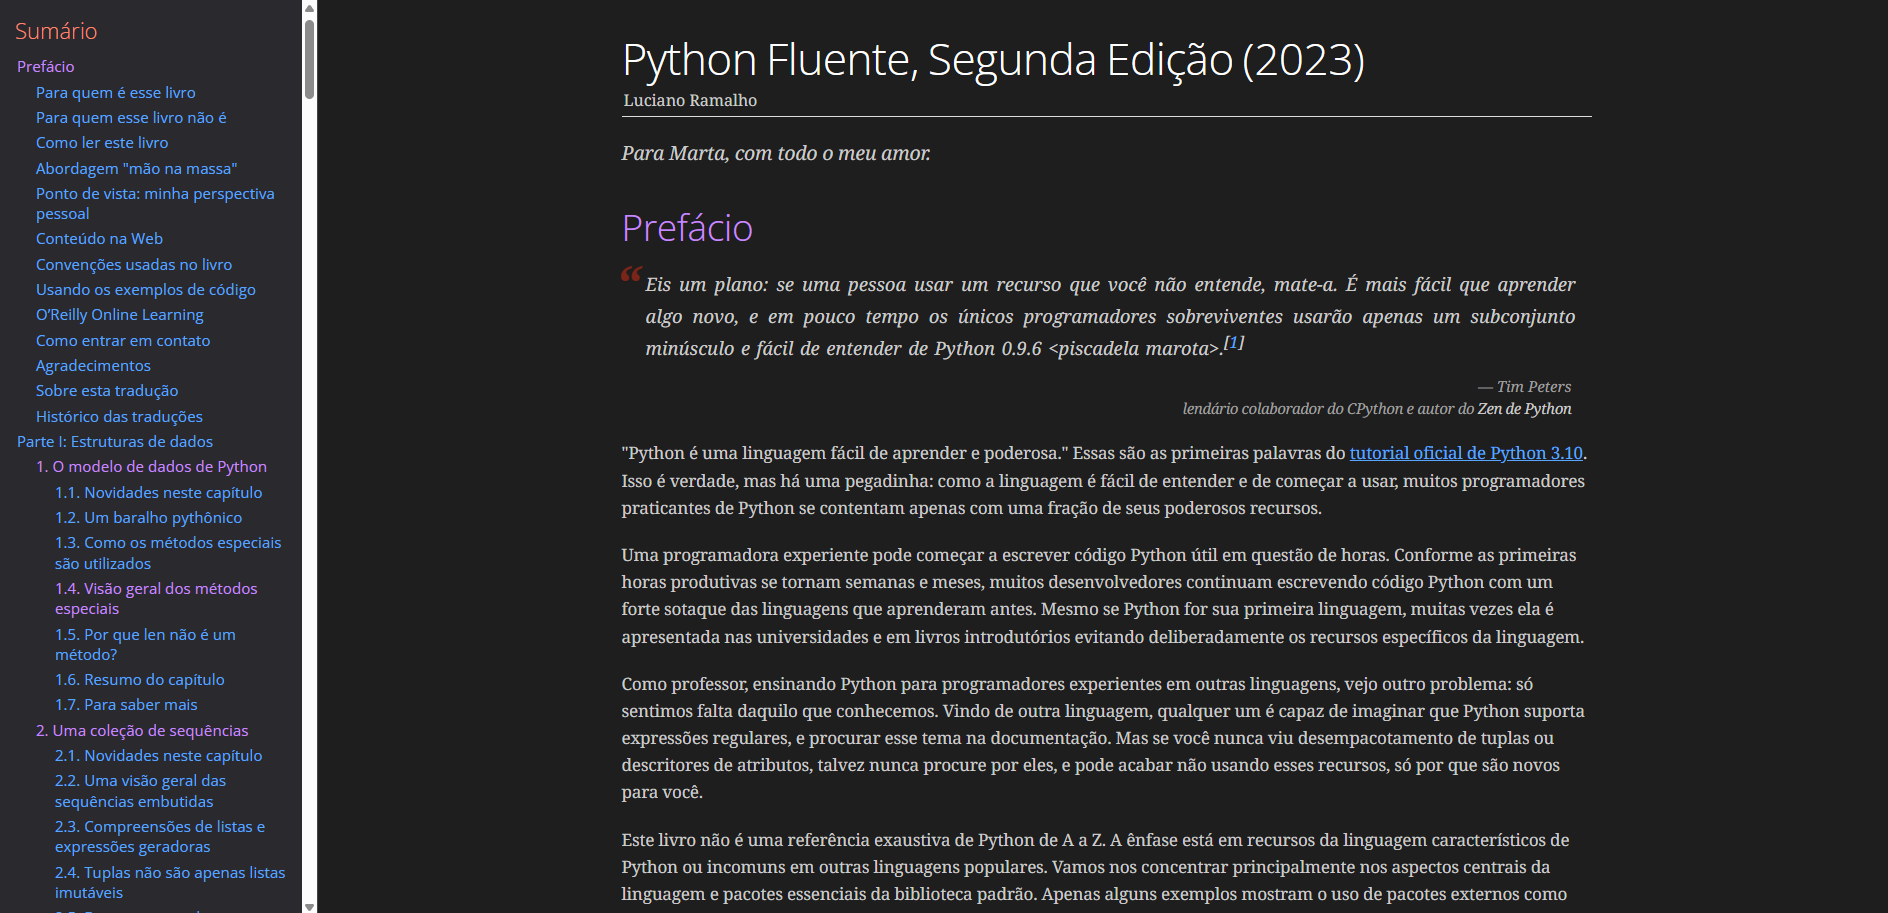
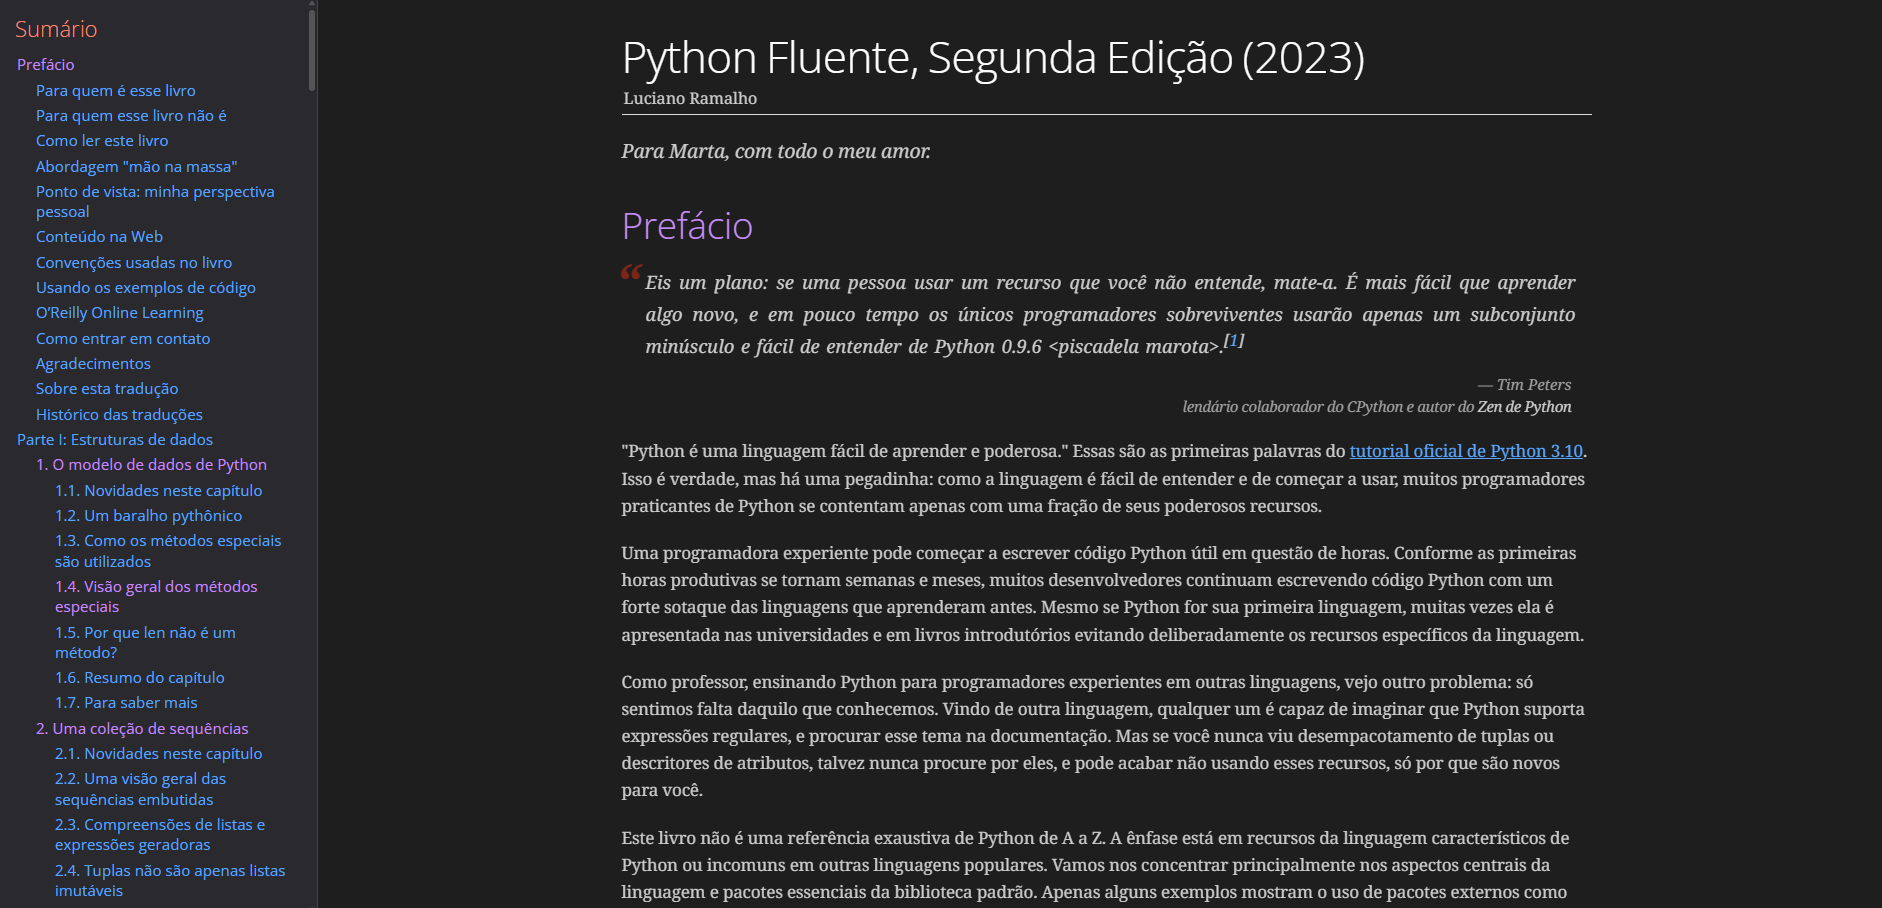
Ultimos retoques

diff --git a/style.css b/style.css
@@ -1,49 +1,92 @@
 /* ==UserStyle==
-@name           pythonfluente.com/2/
+@name           🐍 Python Fluente Dark Mode Configurável
 @namespace      github.com/openstyles/stylus
 @version        1.0.0
-@description    A new userstyle
-@author         Me
+@description    Dark mode para Python Fluente 2a Ed.
+@author         tpougy
+@preprocessor   stylus
+
+@var checkbox inverter_imagens "Inverter Cores das Imagens (para diagramas)" 1
+
+@var color bg_primary         "Fundo: Principal" #1e1e1e
+@var color bg_secondary       "Fundo: Secundário (Tabelas, Sumário)" #2a2a2e
+@var color bg_tertiary        "Fundo: Terciário (Cabeçalho de Tabela)" #333
+@var color bg_ui_element      "Fundo: Elementos de UI (Sidebars)" #262b33
+@var color syntax_bg          "Fundo: Blocos de Código" #282c34
+
+@var color text_primary       "Texto: Principal" #cccccc
+@var color text_bright        "Texto: Brilhante (Títulos)" #ffffff
+@var color text_muted         "Texto: Suave (Rodapé)" #888
+@var color text_subtle        "Texto: Sutil (Citações)" #a0a0a0
+@var color syntax_text        "Texto: Blocos de Código" #abb2bf
+
+@var color accent_primary     "Acento: Principal (Links, Seleção)" #58a6ff
+@var color accent_secondary   "Acento: Secundário (Subtítulos)" #ff8975
+@var color accent_hover       "Acento: Link Hover" #8cc3ff
+@var color accent_visited     "Acento: Link Visitado" #c58af9
+
+@var color border_primary     "Borda: Principal" #444
+@var color border_secondary   "Borda: Secundária" #555
+
+@var color highlight_bg       "Destaque: Fundo (tag <mark>)" #d7ba7d
+@var color error_bg           "Destaque: Fundo de Erro" #ff444455
+
+@var color scrollbar_thumb    "Scrollbar: Botão" #555
+@var color scrollbar_thumb_hover "Scrollbar: Botão Hover" #888
+
+@var color syntax_keyword     "Sintaxe: Palavra-chave" #c678dd
+@var color syntax_string      "Sintaxe: String" #98c379
+@var color syntax_number      "Sintaxe: Número" #d19a66
+@var color syntax_function    "Sintaxe: Função/Classe" #61afef
+@var color syntax_operator    "Sintaxe: Operador" #56b6c2
+@var color syntax_comment     "Sintaxe: Comentário" #7f848e
+
 ==/UserStyle== */
+
 @-moz-document domain("pythonfluente.com") {
   /**
      * ===================================================================
-     * TEMA DARK MODE v3.0 para PYTHON FLUENTE 2E
+     * TEMA DARK MODE v4.0 para PYTHON FLUENTE 2E
      * ===================================================================
-     * Refatorado para usar Variáveis CSS para fácil customização.
+     * Refatorado para usar o formulário de configuração do Stylus.
      */
+
   :root {
-    /* Paleta de Cores Principal */
-    --bg-primary: #1e1e1e;
-    --bg-secondary: #2a2a2e;
-    --bg-tertiary: #333;
-    --bg-ui-element: #262b33;
+    /* Paleta de Cores Principal (Ponte entre Stylus e CSS) */
+    --bg-primary: bg_primary;
+    --bg-secondary: bg_secondary;
+    --bg-tertiary: bg_tertiary;
+    --bg-ui-element: bg_ui_element;
 
-    --text-primary: #cccccc;
-    --text-bright: #ffffff;
-    --text-muted: #888;
-    --text-subtle: #a0a0a0;
+    --text-primary: text_primary;
+    --text-bright: text_bright;
+    --text-muted: text_muted;
+    --text-subtle: text_subtle;
 
-    --accent-primary: #58a6ff;
-    --accent-secondary: #ff8975;
-    --accent-hover: #8cc3ff;
-    --accent-visited: #c58af9;
+    --accent-primary: accent_primary;
+    --accent-secondary: accent_secondary;
+    --accent-hover: accent_hover;
+    --accent-visited: accent_visited;
 
-    --border-primary: #444;
-    --border-secondary: #555;
+    --border-primary: border_primary;
+    --border-secondary: border_secondary;
 
-    --highlight-bg: #d7ba7d;
-    --error-bg: #ff444455;
+    --highlight-bg: highlight_bg;
+    --error-bg: error_bg;
+
+    --scrollbar-track: bg_secondary;
+    --scrollbar-thumb: scrollbar_thumb;
+    --scrollbar-thumb-hover: scrollbar_thumb_hover;
 
     /* Destaque de Sintaxe (Syntax Highlighting) */
-    --syntax-bg: #282c34;
-    --syntax-text: #abb2bf;
-    --syntax-keyword: #c678dd;
-    --syntax-string: #98c379;
-    --syntax-number: #d19a66;
-    --syntax-function: #61afef;
-    --syntax-operator: #56b6c2;
-    --syntax-comment: #7f848e;
+    --syntax-bg: syntax_bg;
+    --syntax-text: syntax_text;
+    --syntax-keyword: syntax_keyword;
+    --syntax-string: syntax_string;
+    --syntax-number: syntax_number;
+    --syntax-function: syntax_function;
+    --syntax-operator: syntax_operator;
+    --syntax-comment: syntax_comment;
   }
 
   /* --- [1] GERAL: Fundo, Texto e Seleção --- */
@@ -56,7 +99,6 @@
     color: var(--text-primary) !important;
   }
 
-  /* Cor de texto selecionado */
   ::selection {
     background-color: var(--accent-primary) !important;
     color: var(--bg-primary) !important;
@@ -76,7 +118,6 @@
     border-bottom-color: var(--border-primary) !important;
   }
 
-  /* Cores específicas de títulos e links vermelhos */
   h2,
   h3,
   h4,
@@ -120,46 +161,39 @@
   }
 
   /* --- [5] ELEMENTOS ESPECÍFICOS --- */
-  /* Blocos laterais (Sidebars) e de Admonition */
   div.sidebarblock,
   div.admonitionblock {
     background-color: var(--bg-ui-element) !important;
     border-color: var(--border-secondary) !important;
   }
 
-  /* Tabela de conteúdo (Sumário) */
+  div.sidebarblock .content {
+    background-color: transparent !important;
+  }
+
   #toc.toc2 {
     background-color: var(--bg-secondary) !important;
     border: 1px solid var(--border-primary) !important;
   }
 
-  /* Texto destacado com <mark> (fundo amarelo) */
   mark {
     background-color: var(--highlight-bg) !important;
     color: var(--bg-primary) !important;
   }
 
-  /* Linhas divisórias */
   hr {
     border-color: var(--border-primary) !important;
   }
 
-  /* Rodapé */
   div#footer-text {
     color: var(--text-muted) !important;
   }
 
-  div.sidebarblock .content {
-    background-color: transparent !important;
-  }
-
-  /* Legendas de Imagens */
   div.imageblock .title {
     margin-top: 1em !important;
   }
 
   /* --- [6] BLOCOS DE CÓDIGO (SYNTAX HIGHLIGHTING) --- */
-  /* Fundo geral para blocos de código */
   pre,
   code,
   pre.rouge.highlight {
@@ -168,14 +202,11 @@
     border-radius: 5px;
   }
 
-  /* Palavras-chave (def, class, import) */
   pre .k,
   pre .kn,
   pre .kd {
     color: var(--syntax-keyword) !important;
   }
-
-  /* Strings */
   pre .s,
   pre .s1,
   pre .s2,
@@ -186,38 +217,28 @@
   pre .sb {
     color: var(--syntax-string) !important;
   }
-
-  /* Números */
   pre .mi,
   pre .mf,
   pre .mh {
     color: var(--syntax-number) !important;
   }
-
-  /* Nomes de funções e classes */
   pre .nf,
   pre .nc,
   pre .nd,
   pre .nb {
     color: var(--syntax-function) !important;
   }
-
-  /* Operadores (=, +, *) e built-ins (print, len) */
   pre .o,
   pre .ow,
   pre .bp,
   pre .kc {
     color: var(--syntax-operator) !important;
   }
-
-  /* Comentários */
   pre .c1,
   pre .c {
     color: var(--syntax-comment) !important;
     font-style: italic;
   }
-
-  /* Outros nomes e variáveis */
   pre .n,
   pre .nv,
   pre .nl,
@@ -225,13 +246,10 @@
   pre .nt {
     color: var(--syntax-text) !important;
   }
-
-  /* Erros e outros */
   pre .err {
     background-color: var(--error-bg) !important;
   }
 
-  /* Números de chamada (callouts) */
   b.conum {
     color: var(--text-bright) !important;
     background-color: var(--accent-primary) !important;
@@ -253,8 +271,14 @@
 
   /* --- [8] INVERSÃO DE IMAGENS (DIAGRAMAS) --- */
   img {
-    filter: invert(1) !important;
-    mix-blend-mode: screen !important;
+    if inverter_imagens {
+      filter: invert(1) !important;
+      mix-blend-mode: screen !important;
+    }
+    else {
+      filter: none !important;
+      mix-blend-mode: normal !important;
+    }
   }
 
   /* --- [9] BLOCOS DE EXEMPLO --- */
@@ -267,13 +291,37 @@
   }
 
   /* --- [10] OUTROS --- */
-  /* Autor */
   .author {
     color: var(--text-primary) !important;
   }
-
-  /* Dedicatória */
   em {
     color: var(--text-primary) !important;
+  }
+
+  /* --- [11] BARRA DE ROLAGEM (SCROLLBAR) --- */
+
+  /* Para Chrome, Edge, Safari, etc. */
+  #toc.toc2::-webkit-scrollbar {
+    width: 12px !important;
+  }
+
+  #toc.toc2::-webkit-scrollbar-track {
+    background: var(--scrollbar-track) !important;
+  }
+
+  #toc.toc2::-webkit-scrollbar-thumb {
+    background-color: var(--scrollbar-thumb) !important;
+    border-radius: 20px !important;
+    border: 3px solid var(--scrollbar-track) !important;
+  }
+
+  #toc.toc2::-webkit-scrollbar-thumb:hover {
+    background-color: var(--scrollbar-thumb-hover) !important;
+  }
+
+  /* Para Firefox */
+  #toc.toc2 {
+    scrollbar-width: thin !important;
+    scrollbar-color: var(--scrollbar-thumb) var(--scrollbar-track) !important;
   }
 }
